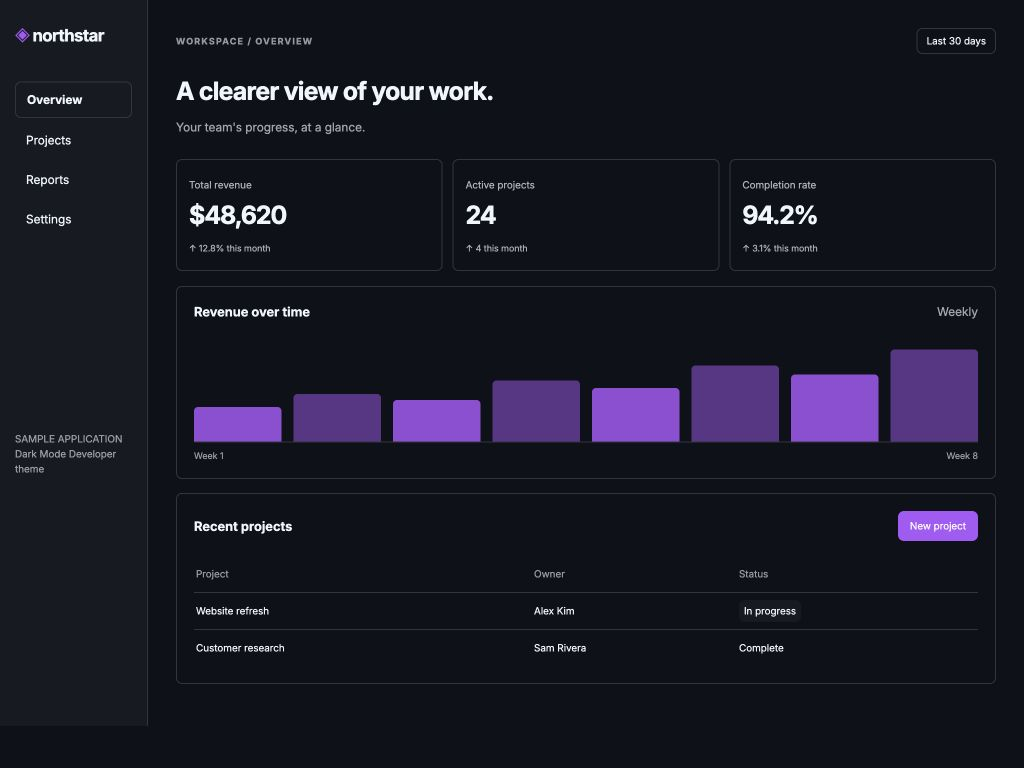
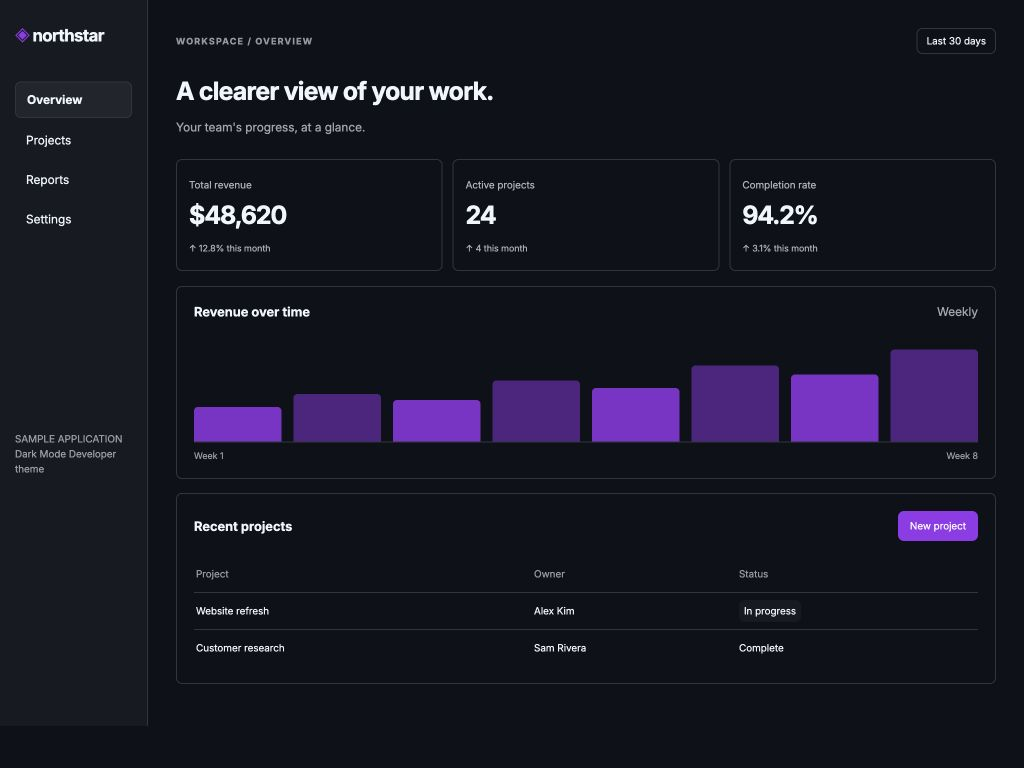
Polish Studio controls and developer theme contrast
Clarify single-appearance downloads with dynamic light/dark labels,
order the controls, and place Esc guidance inside the native color popup.

Improve developer button contrast and refresh its gallery snapshot while
preserving original demos. Link the footer author and cover export-mode
selection and contrast regressions.

diff --git a/studio/streamlit_app.py b/studio/streamlit_app.py
@@ -18,6 +18,12 @@ st.html("""<style>
 h1{letter-spacing:-1.5px;font-weight:650!important;font-size:2.65rem!important;line-height:1.12!important}
 h2{letter-spacing:-.6px;font-size:1.45rem!important}h3{font-size:1.05rem!important}
 .st-key-controls{background:#f8fafc}.st-key-preview_frame{padding:0!important;overflow:hidden}
+/* Streamlit 1.66.1: replace only the single HEX field's visible caption.
+   Keep the native input/label association and RGB/HSL captions intact. */
+[data-testid="stColorPickerPopover"] .flexbox-fix > div:only-child > div:has(> input) > label{
+font-size:0!important;text-transform:none!important}
+[data-testid="stColorPickerPopover"] .flexbox-fix > div:only-child > div:has(> input) > label::after{
+content:" Press Esc to confirm";font-size:11px;line-height:11px}
 @media(max-width:700px){.stMainBlockContainer{padding:1.4rem 1rem}h1{font-size:2rem!important}}
 </style>""")
 
@@ -169,19 +175,19 @@ else:
             st.caption(selected.description)
             st.caption(f"{len(changes)} changed settings · session only" if changes else "Preset defaults · ready to try")
             if editable:
-                st.radio("Include in your download", ["single", "paired"], key="export_scope", horizontal=True,
-                         format_func=lambda value: "This appearance" if value == "single" else "Light + dark",
+                st.radio("Include in your download:", ["single", "paired"], key="export_scope", horizontal=True,
+                         format_func=lambda value: f"Only {mode}" if value == "single" else "Light + dark",
                          on_change=store_choice, args=("export_scope", "output"))
                 st.segmented_control("Edit appearance", ["light", "dark"], key="edit_appearance", required=True,
                                      format_func=str.capitalize, on_change=store_choice, args=("edit_appearance", "appearance"))
-                st.caption("Light and dark have separate colors. The added appearance is a curated Studio starting point.")
+                st.caption("Light and dark have separate colors.")
             st.markdown("**Colors**")
             color_controls([("accent", "Accent"), ("background", "Canvas")])
             if editable:
                 with st.expander("Typography & shape"):
                     st.caption("Fonts apply to both appearances and the sidebar.")
-                    for key, label, options in (("body_font", "Body font", FONT_CHOICES),
-                                                ("heading_font", "Heading font", FONT_CHOICES),
+                    for key, label, options in (("heading_font", "Heading font", FONT_CHOICES),
+                                                ("body_font", "Body font", FONT_CHOICES),
                                                 ("code_font", "Code font", CODE_FONT_CHOICES)):
                         st.selectbox(label, list(options), key=key, format_func=options.get,
                                      on_change=store_font, args=(key,))
@@ -194,8 +200,8 @@ else:
                                     ("sidebar_text", "Sidebar text")], disabled=not variant["sidebar_custom"])
                     st.caption("Accent, links, borders and fonts inherit the main appearance.")
                 with st.expander("Advanced"):
-                    color_controls([("surface", "Surface"), ("text", "Text"), ("link", "Links"),
-                                    ("border", "Borders"), ("code_background", "Code canvas")])
+                    color_controls([("text", "Text"), ("link", "Links"), ("border", "Borders"),
+                                    ("surface", "Surface"), ("code_background", "Code canvas")])
                     st.checkbox("Show widget borders", key="widget_border", on_change=store_control, args=("widget_border", mode))
                     st.checkbox("Show sidebar divider · both appearances", key="sidebar_border", on_change=store_choice,
                                 args=("sidebar_border", "showSidebarBorder"))
@@ -269,6 +275,6 @@ else:
 
 st.divider()
 with st.container(horizontal=True, horizontal_alignment="distribute", vertical_alignment="center"):
-    st.caption("Awesome Streamlit Themes · by jmedia65. Your edits last for this session; refreshing or leaving may lose them. Download to keep your theme.")
+    st.caption("Awesome Streamlit Themes · by [Max Braglia](https://maxbraglia.com/). Your edits last for this session; refreshing or leaving may lose them. Download to keep your theme.")
     st.markdown("[Source & credits](https://github.com/jmedia65/awesome-streamlit-themes) &nbsp; · &nbsp; "
                 "[Feedback](https://github.com/jmedia65/awesome-streamlit-themes/issues)")

diff --git a/tests/test_breadth.py b/tests/test_breadth.py
@@ -14,7 +14,7 @@ from streamlit.testing.v1 import AppTest
 
 from studio.catalog import ROOT, get_preset, load_theme
 from studio.export import config_bytes, export_package
-from studio.theme import (EDITABLE_PRESETS, ThemeError, contrast_advisories, draft_changes,
+from studio.theme import (EDITABLE_PRESETS, ThemeError, contrast_advisories, contrast_ratio, draft_changes,
                           draft_theme, preset_draft, validate_theme)
 
 
@@ -40,7 +40,8 @@ def test_three_defaults_preserve_original_identity_and_have_distinct_counterpart
     original = load_theme(slug)
     for key in ("primaryColor", "backgroundColor", "secondaryBackgroundColor", "textColor",
                 "font", "headingFont", "codeFont", "baseRadius", "showWidgetBorder", "showSidebarBorder"):
-        assert theme[key] == original[key]
+        expected = "#9333ea" if slug == "dark-mode" and key == "primaryColor" else original[key]
+        assert theme[key] == expected
     assert not draft_changes(slug, draft)
     assert theme["base"] == get_preset(slug).appearance
     opposite = "light" if theme["base"] == "dark" else "dark"
@@ -194,7 +195,7 @@ def test_dirty_switch_requires_choice_and_cancel_preserves_both_appearances(via_
         app.selectbox(key="preset_picker").select("dark-mode").run()
     app.button(key="discard_switch").click().run()
     assert app.session_state.preset == "dark-mode"
-    assert app.color_picker(key="accent").value == "#a855f7"
+    assert app.color_picker(key="accent").value == "#9333ea"
     assert not app.exception
 
 
@@ -207,7 +208,7 @@ def test_paired_warnings_include_hidden_mode_and_visitors_are_independent():
     assert app.get("download_button")
     other = editor("dark-mode")
     assert other.radio(key="export_scope").value == "single"
-    assert other.color_picker(key="accent").value == "#a855f7"
+    assert other.color_picker(key="accent").value == "#9333ea"
     assert app.color_picker(key="accent").value == "#2563eb"
 
 
@@ -248,3 +249,42 @@ assert any(title.value=='A clearer view of your work.' for title in app.title)
 '''
     result = subprocess.run([sys.executable, "-c", code], cwd=tmp_path, capture_output=True, text=True, timeout=45)
     assert result.returncode == 0, result.stderr
+
+
+def test_dynamic_single_label_keeps_export_scope_and_config_in_sync():
+    app = editor("financial")
+    assert app.radio(key="export_scope").options == ["Only light", "Light + dark"]
+    set_mode(app, "dark")
+    assert app.radio(key="export_scope").options == ["Only dark", "Light + dark"]
+    assert app.radio(key="export_scope").value == "single"
+    assert tomllib.loads(app.code[0].value)["theme"]["base"] == "dark"
+    app.radio(key="export_scope").set_value("paired").run()
+    paired = app.code[0].value
+    set_mode(app, "light")
+    assert app.radio(key="export_scope").options == ["Only light", "Light + dark"]
+    assert app.radio(key="export_scope").value == "paired"
+    assert app.code[0].value == paired
+    set_mode(app, "dark")
+    assert app.radio(key="export_scope").options == ["Only dark", "Light + dark"]
+    assert app.radio(key="export_scope").value == "paired"
+    assert app.code[0].value == paired
+
+
+def test_studio_developer_default_has_readable_button_text_and_preserves_original():
+    original = load_theme("dark-mode")
+    assert original["primaryColor"] == "#a855f7"
+    draft = preset_draft("dark-mode")
+    theme = draft_theme(draft)
+    assert theme["primaryColor"] == "#9333ea"
+    assert contrast_ratio("#ffffff", theme["primaryColor"]) >= 4.5
+    assert not contrast_advisories(theme)
+    assert not draft_changes("dark-mode", draft)
+    assert tomllib.loads(config_bytes(theme).decode())["theme"]["primaryColor"] == "#9333ea"
+    assert draft_theme(draft, output="paired")["dark"]["primaryColor"] == "#9333ea"
+    app = editor("dark-mode")
+    assert not app.warning
+    app.color_picker(key="accent").set_value("#a855f7").run()
+    assert any("Primary button text contrast" in warning.value for warning in app.warning)
+    app.button[0].click().run()
+    assert app.color_picker(key="accent").value == "#9333ea"
+    assert not app.warning

diff --git a/tests/test_concept.py b/tests/test_concept.py
@@ -45,7 +45,7 @@ def test_gallery_choice_syncs_controls_and_new_visitor_is_independent():
     app.get("segmented_control")[0].set_value("All 10 themes").run()
     app.button(key="choose_dark-mode").click().run()
     assert app.selectbox(key="preset_picker").value == "dark-mode"
-    assert app.color_picker(key="accent").value == "#a855f7"
+    assert app.color_picker(key="accent").value == "#9333ea"
     assert app.selectbox(key="body_font").value == "Inter"
     assert concept().selectbox(key="preset_picker").value == "healthcare"
     assert not app.exception
@@ -61,8 +61,9 @@ def test_dropdown_switch_synchronizes_frontend_then_radius_keeps_palette(preset)
     assert app.button(key="discard_switch")
     app.button(key="discard_switch").click().run()
     source = load_theme(preset.slug)
+    accent = "#9333ea" if preset.slug == "dark-mode" else source["primaryColor"]
     assert not app.exception
-    assert app.color_picker(key="accent").value == source["primaryColor"]
+    assert app.color_picker(key="accent").value == accent
     assert app.color_picker(key="background").value == source["backgroundColor"]
     # Backend values alone missed the browser desynchronization regression.
     assert app.color_picker(key="accent").proto.set_value
@@ -70,7 +71,7 @@ def test_dropdown_switch_synchronizes_frontend_then_radius_keeps_palette(preset)
     assert app.select_slider[0].value == source["baseRadius"]
     app.select_slider[0].set_value("1rem").run()
     assert app.select_slider[0].value == "1rem"
-    assert app.color_picker(key="accent").value == source["primaryColor"]
+    assert app.color_picker(key="accent").value == accent
     assert app.color_picker(key="background").value == source["backgroundColor"]
     app.button[0].click().run()
     assert app.select_slider[0].value == source["baseRadius"]

diff --git a/studio/theme.py b/studio/theme.py
@@ -190,6 +190,9 @@ def preset_draft(slug):
     mode = get_preset(slug).appearance
     variant = {key: deepcopy(value) for key, value in source.items()
                if key in COLORS | {"baseRadius", "showWidgetBorder", "sidebar"}}
+    if slug == "dark-mode":
+        # Refresh the Studio default without modifying the historical demo.
+        variant["primaryColor"] = "#9333ea"
     variant["buttonRadius"] = source["baseRadius"]
     variant["sidebar"].setdefault("textColor", source["textColor"])
     variant["sidebar_custom"] = True

diff --git a/studio/README.md b/studio/README.md
@@ -20,7 +20,7 @@ Tested runtime: **Streamlit 1.66.1 / Python 3.13.12**. This is an exact tested t
 
 1. Start in **All 10 themes**, then choose Healthcare (or another original theme) to open the Studio. The fixed shell uses Financial.
 2. Adjust Accent or Canvas. That is all you need for a quick variation; the other controls stay collapsed.
-3. Choose **This appearance** for one design or **Light + dark** for a switchable pair. **Edit appearance** changes which palette you are working on; each keeps its own colors. The original appearance comes from the repository; its counterpart is a curated Studio starting point.
+3. Choose **Only light** / **Only dark** for the selected design or **Light + dark** for a switchable pair. **Edit appearance** changes which palette you are working on; each keeps its own colors. The original appearance comes from the repository, with a deeper Developer accent for more readable button text; each counterpart is a Studio starting point. Historical demos remain untouched.
 4. Optionally open **Typography & shape**, **Sidebar**, or **Advanced**. There are three bundled body/heading font choices and three code font choices. Typography and the sidebar divider are shared across appearances. Colors, corners and widget borders belong to the appearance you are editing.
 5. Switch Dashboard / Components, or compare **Current edits** with **Preset defaults**. Comparing does not replace your edits or change the download. Reset restores the whole preset, including both appearances.
 6. Browse **All 10 themes** and choose another preset. If you have changes, choose **Keep editing** or explicitly discard them before switching.
